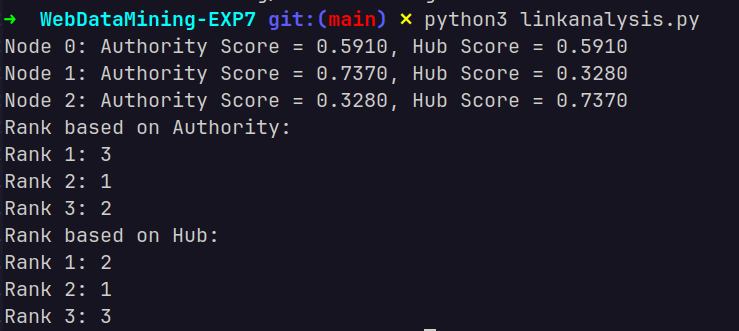
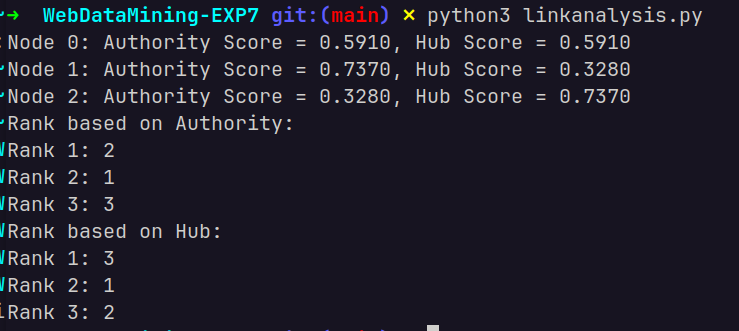
code fixed ⚙ls

diff --git a/linkanalysis.py b/linkanalysis.py
@@ -42,7 +42,7 @@ for i in range(len(authority)):
 
 def sortByKey(li):
     li = dict(enumerate(li.tolist(), 1))
-    return [i[0] for i in sorted(li.items(), key=lambda v: v[1])]
+    return [i[0] for i in sorted(li.items(), key=lambda v: v[1], reverse=True)]
 authority_rank = sortByKey(authority)
 hub_rank = sortByKey(hub)
 print("Rank based on Authority:")

diff --git a/README.md b/README.md
@@ -87,7 +87,7 @@ for i in range(len(authority)):
 
 def sortByKey(li):
     li = dict(enumerate(li.tolist(), 1))
-    return [i[0] for i in sorted(li.items(), key=lambda v: v[1])]
+    return [i[0] for i in sorted(li.items(), key=lambda v: v[1], reverse=True)]
 authority_rank = sortByKey(authority)
 hub_rank = sortByKey(hub)
 print("Rank based on Authority:")
